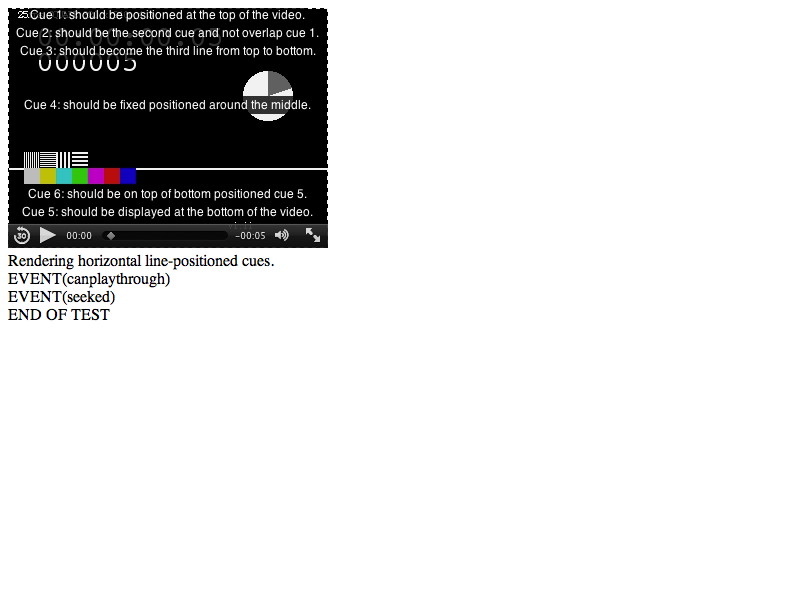
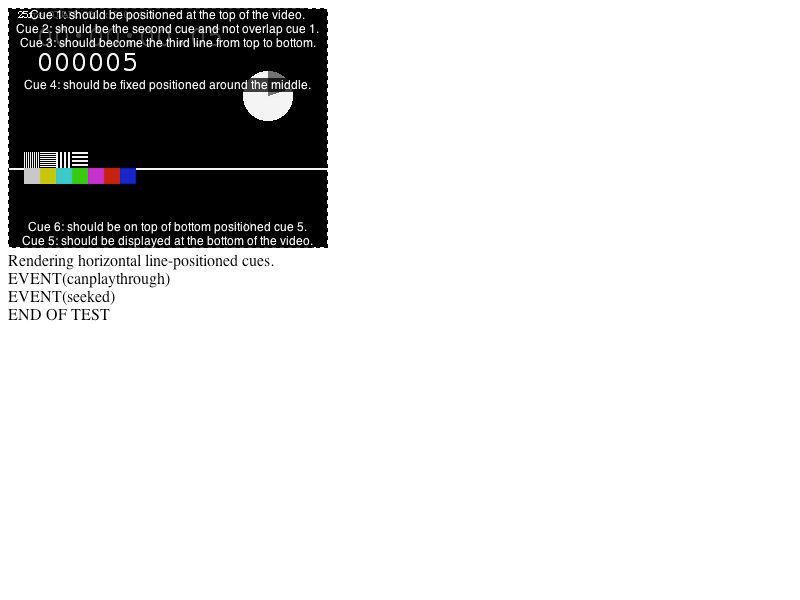
Some media/track tests fail or assert on Mac https://bugs.webkit.org/show_bug.cgi?id=97132
Reviewed by Simon Fraser.

Source/WebCore:

Rationalize the font and padding behavior of cues and cue boxes; ::cue pseudo elements cannot have padding
values applied via CSS (due to padding not being included in the whitelist of applicable CSS properties).
Also, the font values were being applied to the box at one level and the cue at another, leading to incorrect
layout in the snapToLines case. Padding has been removed from the cue, and the font settings are now applied
to the box exclusively.

Additionally, a few drive-by changes were made in TextTrackCue to the return values of displayTreeInternal() &
element(), which previously returned a PassRefPtr<> instead of a plain pointer.

* css/mediaControls.css:
(video::-webkit-media-text-track-container): Move the font size to the display selector.
(video::cue): Remove the display:inline and padding:2px declarations.
(video::-webkit-media-text-track-display): Remove the -webkit-line-content now that the ::cue has no padding.
* html/track/TextTrackCue.cpp:
(WebCore::TextTrackCue::TextTrackCue): The background box is now a span, rather than a forced-inline div.
(WebCore::TextTrackCue::displayTreeInternal): Return a plain pointer.
(WebCore::TextTrackCue::getDisplayTree): Ditto.
(WebCore::TextTrackCue::setFontSize): Set the font on the box, not the cue.
* html/track/TextTrackCue.h:
(WebCore::TextTrackCue::element): Return a plain pointer.
* html/track/TextTrackCueGeneric.cpp:
[…]

Changed region(s): [[0.0, 0.27, 0.4062, 0.54], [0.0, 0.03, 0.4062, 0.21]]

diff --git a/LayoutTests/media/track/track-cue-rendering-snap-to-lines-not-set.html b/LayoutTests/media/track/track-cue-rendering-snap-to-lines-not-set.html
@@ -89,10 +89,7 @@
             findMediaElement();
             testTrack = document.querySelector('track');
             video.src = findMediaFile('video', '../content/test');
-
-            // In Chromium it is the enclosure element, which provides the controls height, otherwise the panel;
-            // both are the second child in the shadow DOM.
-            controlsPanelElement = internals.shadowRoot(video).firstChild.firstChild;
+            controlsPanelElement = mediaControlsElement(internals.shadowRoot(video).firstChild, '-webkit-media-controls-panel');
 
             waitForEvent('canplaythrough', function() {
                 cueDisplayContainer = textTrackDisplayElement(video);

diff --git a/Source/WebCore/css/mediaControls.css b/Source/WebCore/css/mediaControls.css
@@ -223,7 +223,6 @@ video::-webkit-media-text-track-container {
     overflow: hidden;
     padding-bottom: 5px;
 
-    font: 22px sans-serif;
     text-align: center;
     color: rgba(255, 255, 255, 1);
 
@@ -242,10 +241,7 @@ video::-webkit-media-text-track-container {
 }
 
 video::cue {
-    display: inline;
-
     background-color: rgba(0, 0, 0, 0.8);
-    padding: 2px 2px;
 }
 
 video::-webkit-media-text-track-display {
@@ -253,6 +249,7 @@ video::-webkit-media-text-track-display {
     overflow: hidden;
     white-space: pre-wrap;
     -webkit-box-sizing: border-box;
+    font: 22px sans-serif;
 }
 
 video::cue(:future) {

diff --git a/LayoutTests/media/track/track-cue-rendering-horizontal.html b/LayoutTests/media/track/track-cue-rendering-horizontal.html
@@ -28,7 +28,7 @@
         <script src=../video-test.js></script>
     </head>
     <body onload="loaded()">
-        <video controls>
+        <video>
             <track src="captions-webvtt/captions-snap-to-lines-set.vtt" kind="captions" default>
         </video>
     </body>

diff --git a/LayoutTests/media/track/track-cue-rendering-vertical.html b/LayoutTests/media/track/track-cue-rendering-vertical.html
@@ -29,7 +29,7 @@
         <script src=../video-test.js></script>
     </head>
     <body onload="loaded()">
-        <video controls>
+        <video>
             <track src="captions-webvtt/captions-snap-to-lines-set.vtt" kind="captions" default>
         </video>
     </body>

diff --git a/Source/WebCore/html/track/TextTrackCue.cpp b/Source/WebCore/html/track/TextTrackCue.cpp
@@ -202,7 +202,7 @@ TextTrackCue::TextTrackCue(ScriptExecutionContext* context, double start, double
     , m_isActive(false)
     , m_pauseOnExit(false)
     , m_snapToLines(true)
-    , m_cueBackgroundBox(HTMLDivElement::create(toDocument(context)))
+    , m_cueBackgroundBox(HTMLSpanElement::create(spanTag, toDocument(context)))
     , m_displayTreeShouldChange(true)
     , m_displayDirection(CSSValueLtr)
 {
@@ -228,11 +228,11 @@ PassRefPtr<TextTrackCueBox> TextTrackCue::createDisplayTree()
     return TextTrackCueBox::create(ownerDocument(), this);
 }
 
-PassRefPtr<TextTrackCueBox> TextTrackCue::displayTreeInternal()
+TextTrackCueBox* TextTrackCue::displayTreeInternal()
 {
     if (!m_displayTree)
         m_displayTree = createDisplayTree();
-    return m_displayTree;
+    return m_displayTree.get();
 }
 
 void TextTrackCue::willChange()
@@ -797,11 +797,11 @@ void TextTrackCue::updateDisplayTree(double movieTime)
     m_cueBackgroundBox->appendChild(referenceTree);
 }
 
-PassRefPtr<TextTrackCueBox> TextTrackCue::getDisplayTree(const IntSize& videoSize)
+TextTrackCueBox* TextTrackCue::getDisplayTree(const IntSize& videoSize)
 {
     RefPtr<TextTrackCueBox> displayTree = displayTreeInternal();
     if (!m_displayTreeShouldChange || !track()->isRendered())
-        return displayTree;
+        return displayTree.get();
 
     // 10.1 - 10.10
     calculateDisplayParameters();
@@ -838,7 +838,7 @@ PassRefPtr<TextTrackCueBox> TextTrackCue::getDisplayTree(const IntSize& videoSiz
 
     // 10.15. Let cue's text track cue display state have the CSS boxes in
     // boxes.
-    return displayTree;
+    return displayTree.get();
 }
 
 void TextTrackCue::removeDisplayTree()
@@ -1202,7 +1202,7 @@ void TextTrackCue::setFontSize(int fontSize, const IntSize&, bool important)
     
     LOG(Media, "TextTrackCue::setFontSize - setting cue font size to %i", fontSize);
 
-    element()->setInlineStyleProperty(CSSPropertyFontSize, String::number(fontSize) + "px", important);
+    displayTreeInternal()->setInlineStyleProperty(CSSPropertyFontSize, String::number(fontSize) + "px", important);
 }
 
 } // namespace WebCore

diff --git a/Source/WebCore/html/track/TextTrackCue.h b/Source/WebCore/html/track/TextTrackCue.h
@@ -35,7 +35,6 @@
 #if ENABLE(VIDEO_TRACK)
 
 #include "EventTarget.h"
-#include "HTMLDivElement.h"
 #include "HTMLElement.h"
 #include <wtf/PassOwnPtr.h>
 #include <wtf/RefCounted.h>
@@ -43,6 +42,7 @@
 namespace WebCore {
 
 class DocumentFragment;
+class HTMLSpanElement;
 class ScriptExecutionContext;
 class TextTrack;
 class TextTrackCue;
@@ -143,8 +143,8 @@ public:
     void setIsActive(bool);
 
     bool hasDisplayTree() const { return m_displayTree; }
-    PassRefPtr<TextTrackCueBox> getDisplayTree(const IntSize& videoSize);
-    PassRefPtr<HTMLDivElement> element() const { return m_cueBackgroundBox; }
+    TextTrackCueBox* getDisplayTree(const IntSize& videoSize);
+    HTMLSpanElement* element() const { return m_cueBackgroundBox.get(); }
 
     void updateDisplayTree(double);
     void removeDisplayTree();
@@ -208,7 +208,7 @@ protected:
     Document* ownerDocument() { return toDocument(m_scriptExecutionContext); }
 
     virtual PassRefPtr<TextTrackCueBox> createDisplayTree();
-    PassRefPtr<TextTrackCueBox> displayTreeInternal();
+    TextTrackCueBox* displayTreeInternal();
 
 private:
     void createWebVTTNodeTree();
@@ -262,7 +262,7 @@ private:
     bool m_pauseOnExit;
     bool m_snapToLines;
 
-    RefPtr<HTMLDivElement> m_cueBackgroundBox;
+    RefPtr<HTMLSpanElement> m_cueBackgroundBox;
 
     bool m_displayTreeShouldChange;
     RefPtr<TextTrackCueBox> m_displayTree;

diff --git a/Source/WebCore/page/CaptionUserPreferencesMac.mm b/Source/WebCore/page/CaptionUserPreferencesMac.mm
@@ -232,7 +232,7 @@ String CaptionUserPreferencesMac::captionsWindowCSS() const
     builder.append(windowStyle);
     builder.append(getPropertyNameString(CSSPropertyPadding));
     builder.append(": .4em !important;");
-    
+
     return builder.toString();
 }
 
@@ -253,20 +253,7 @@ String CaptionUserPreferencesMac::captionsBackgroundCSS() const
     CGFloat opacity = MACaptionAppearanceGetBackgroundOpacity(kMACaptionAppearanceDomainUser, &behavior);
     if (!important)
         important = behavior == kMACaptionAppearanceBehaviorUseValue;
-    String backgroundStyle = colorPropertyCSS(CSSPropertyBackgroundColor, Color(backgroundColor.red(), backgroundColor.green(), backgroundColor.blue(), static_cast<int>(opacity * 255)), important);
-
-    if (!opacity)
-        return backgroundStyle;
-    
-    StringBuilder builder;
-    builder.append(backgroundStyle);
-    builder.append(getPropertyNameString(CSSPropertyPadding));
-    builder.append(": 0px");
-    if (behavior == kMACaptionAppearanceBehaviorUseValue)
-        builder.append(" !important");
-    builder.append(';');
-    
-    return builder.toString();
+    return colorPropertyCSS(CSSPropertyBackgroundColor, Color(backgroundColor.red(), backgroundColor.green(), backgroundColor.blue(), static_cast<int>(opacity * 255)), important);
 }
 
 Color CaptionUserPreferencesMac::captionsTextColor(bool& important) const

diff --git a/Source/WebCore/html/track/TextTrackCueGeneric.cpp b/Source/WebCore/html/track/TextTrackCueGeneric.cpp
@@ -31,8 +31,8 @@
 
 #include "CSSPropertyNames.h"
 #include "CSSValueKeywords.h"
-#include "HTMLDivElement.h"
 #include "HTMLNames.h"
+#include "HTMLSpanElement.h"
 #include "InbandTextTrackPrivateClient.h"
 #include "Logging.h"
 #include "RenderObject.h"
@@ -66,7 +66,7 @@ void TextTrackCueGenericBoxElement::applyCSSProperties(const IntSize& videoSize)
     setInlineStyleProperty(CSSPropertyUnicodeBidi, CSSValueWebkitPlaintext);
     
     TextTrackCueGeneric* cue = static_cast<TextTrackCueGeneric*>(getCue());
-    RefPtr<HTMLDivElement> cueElement = cue->element();
+    RefPtr<HTMLSpanElement> cueElement = cue->element();
 
     float size = static_cast<float>(cue->getCSSSize());
     if (cue->useDefaultPosition()) {
